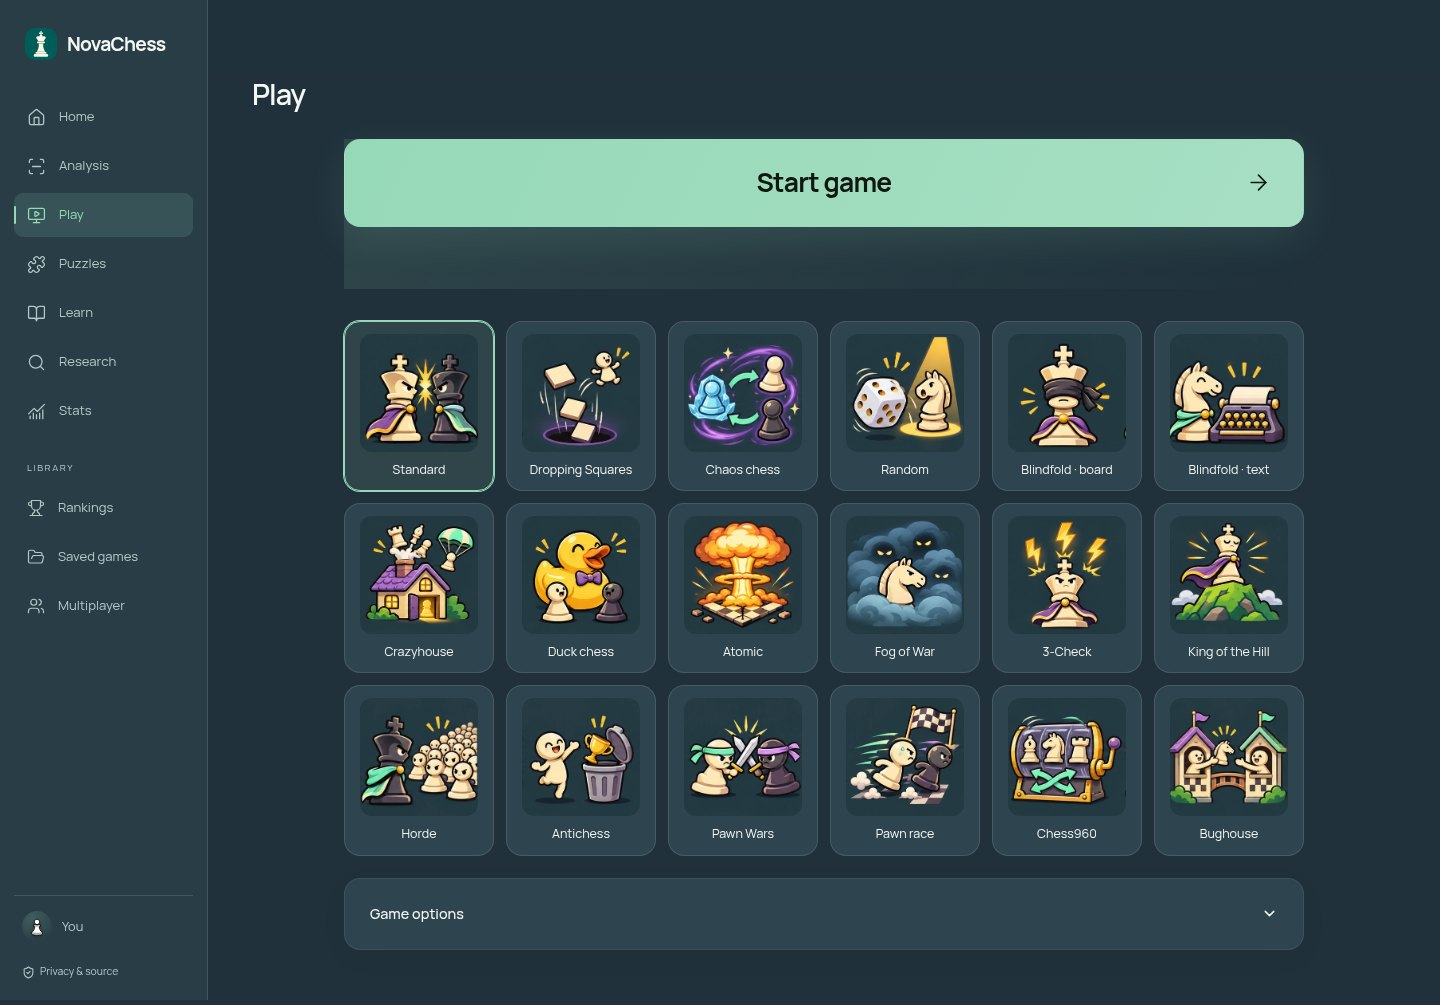
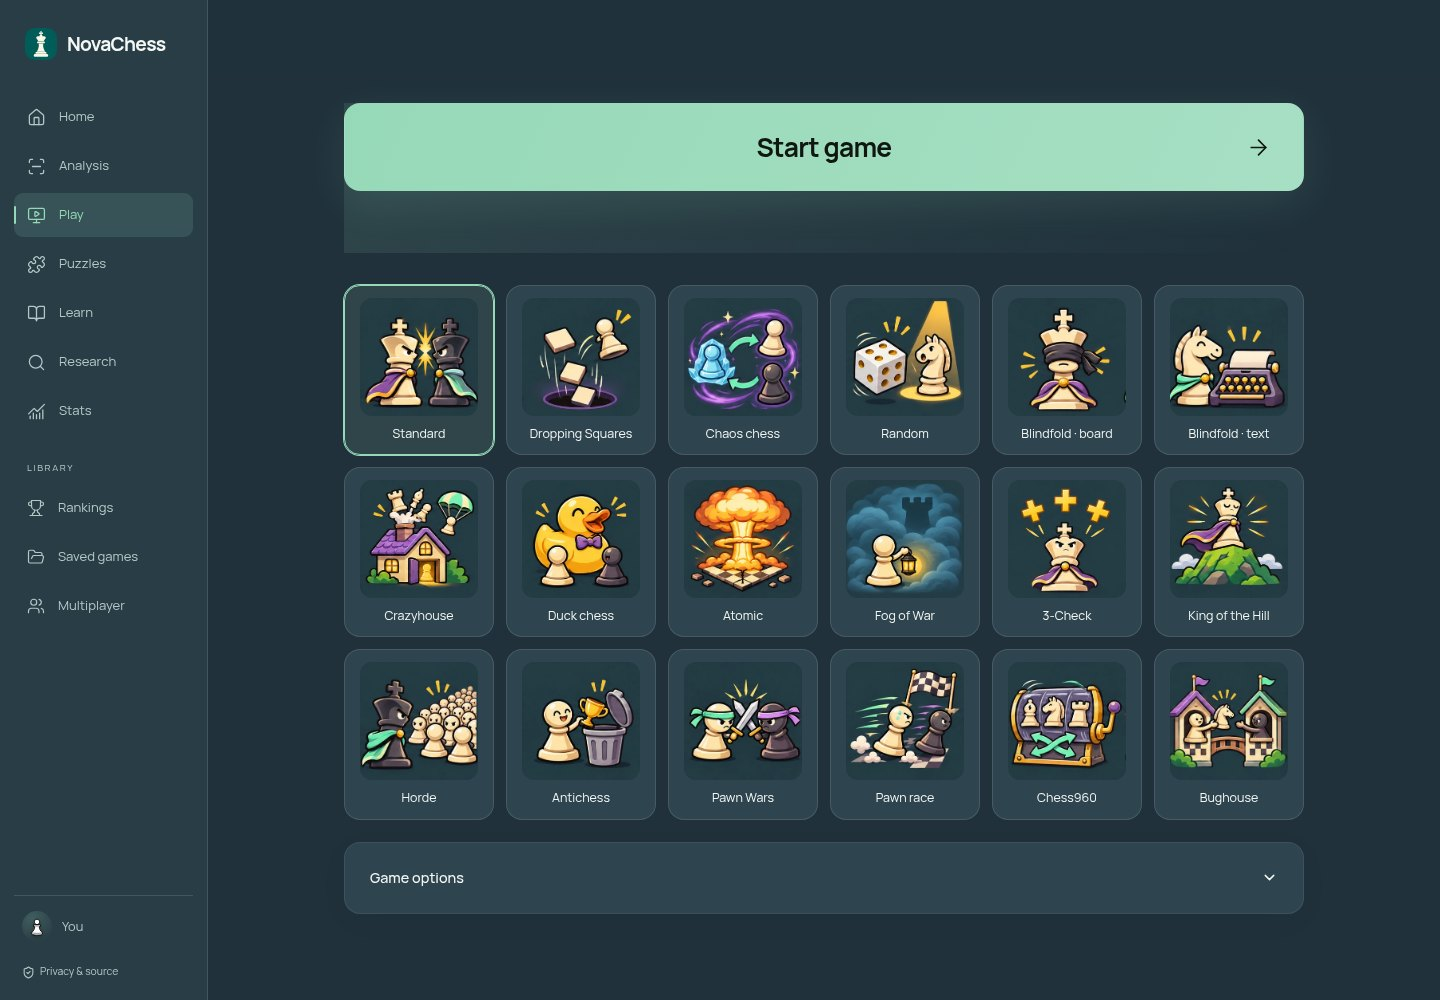
Refine variant illustrations and remove the redundant Play heading

diff --git a/src/pages/Play.tsx b/src/pages/Play.tsx
@@ -634,40 +634,40 @@ export default function Play() {
     );
   return (
     <>
-      <PageTitle
-        title="Play"
-        subtitle={
-          playing
-            ? `${variantInfo?.name || game?.variant} · ${game?.opponent || "Computer"}`
-            : undefined
-        }
-      >
-        {playing && game?.result === "*" && (
-          <Button
-            className="secondary"
-            onClick={() => {
-              setPlaying(false);
-              setPaused(false);
-              setPremoves([]);
-            }}
-          >
-            <Plus size={16} />
-            New game
-          </Button>
-        )}
-        {playing && game?.result === "*" && (
-          <Button
-            className="secondary"
-            onClick={() => {
-              setPaused(!paused);
-              setPremoves([]);
-            }}
-          >
-            {paused ? <PlayIcon size={16} /> : <Pause size={16} />}{" "}
-            {paused ? "Resume" : "Pause"}
-          </Button>
-        )}
-      </PageTitle>
+      {playing ? (
+        <PageTitle
+          title={variantInfo?.name || game?.variant || "Game"}
+          subtitle={game?.opponent || "Computer"}
+        >
+          {playing && game?.result === "*" && (
+            <Button
+              className="secondary"
+              onClick={() => {
+                setPlaying(false);
+                setPaused(false);
+                setPremoves([]);
+              }}
+            >
+              <Plus size={16} />
+              New game
+            </Button>
+          )}
+          {playing && game?.result === "*" && (
+            <Button
+              className="secondary"
+              onClick={() => {
+                setPaused(!paused);
+                setPremoves([]);
+              }}
+            >
+              {paused ? <PlayIcon size={16} /> : <Pause size={16} />}{" "}
+              {paused ? "Resume" : "Pause"}
+            </Button>
+          )}
+        </PageTitle>
+      ) : (
+        <h1 className="sr-only">New game</h1>
+      )}
       {error && (
         <div className="error-banner" role="alert">
           {error}

diff --git a/tests/variant-ui.spec.ts b/tests/variant-ui.spec.ts
@@ -12,6 +12,10 @@ test("illustrated modes put Standard first and show distinct artwork for all 18 
   page,
 }) => {
   await page.goto("/#play");
+  await expect(
+    page.getByRole("heading", { name: "Play", exact: true }),
+  ).toHaveCount(0);
+  await expect(page.locator(".page-title")).toHaveCount(0);
   const cards = page.locator(".variant-gallery>button");
   await expect(cards).toHaveCount(18);
   await expect(cards.first()).toHaveText("Standard");

diff --git a/src/redesign.css b/src/redesign.css
@@ -3577,3 +3577,15 @@ select.theme-select {
     height: 80px;
   }
 }
+
+.sr-only {
+  position: absolute;
+  width: 1px;
+  height: 1px;
+  padding: 0;
+  margin: -1px;
+  overflow: hidden;
+  clip: rect(0, 0, 0, 0);
+  white-space: nowrap;
+  border: 0;
+}

diff --git a/public/variants/README.md b/public/variants/README.md
@@ -7,3 +7,5 @@
 - Row 3: Horde, Antichess, Pawn Wars, Pawn race, Chess960, Bughouse.
 
 The sheet is encoded as WebP at its original resolution. Each picture has a distinct visual motif; only Atomic uses a board as part of its illustration.
+
+Pawns use traditional pedestal bodies with no legs or feet. Dropping Squares, Random, Fog of War, 3-Check, Antichess, Bughouse and Pawn race were revised to preserve that rule, clarify the cubic die and show three plus signs.
